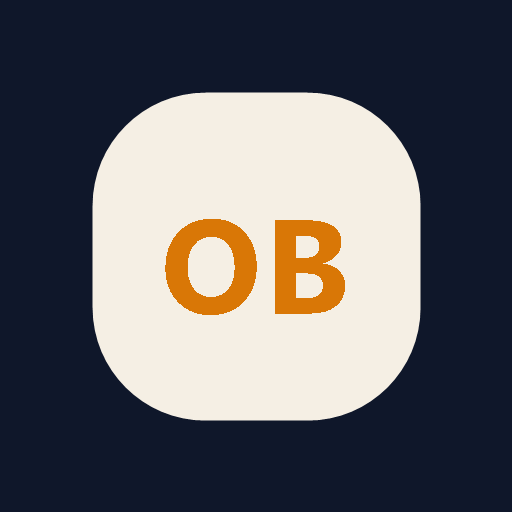
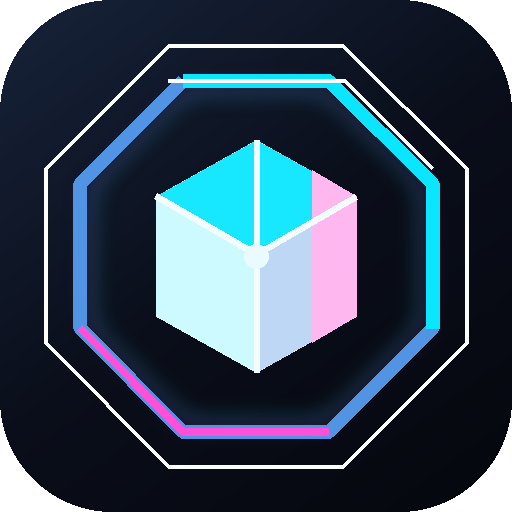
Add unified OctoBox brand assets

diff --git a/static/css/student_app/shell/sidebar.css b/static/css/student_app/shell/sidebar.css
@@ -50,23 +50,15 @@ GERADO NA ONDA 1: divisao estrutural sem redesign visual.
 .student-brandmark-mark {
     width: 46px;
     height: 46px;
-    border-radius: 16px;
     display: grid;
     place-items: center;
-    background:
-        linear-gradient(
-            135deg,
-            color-mix(in srgb, var(--theme-accent-primary) 18%, var(--theme-surface-strong) 82%),
-            color-mix(in srgb, var(--theme-accent-support) 22%, var(--theme-surface-secondary) 78%),
-            color-mix(in srgb, var(--theme-accent-premium) 12%, var(--theme-surface-strong) 88%)
-        );
-    border: 1px solid color-mix(in srgb, var(--theme-accent-support) 20%, var(--theme-border-soft) 80%);
-    box-shadow:
-        inset 0 1px 0 color-mix(in srgb, white 14%, transparent),
-        0 12px 24px color-mix(in srgb, var(--theme-accent-support-alpha) 24%, transparent);
-    color: var(--theme-text-primary);
-    font-weight: 800;
-    letter-spacing: 0.08em;
+    flex: 0 0 auto;
+}
+
+.student-brandmark-mark img {
+    display: block;
+    width: 100%;
+    height: 100%;
 }
 
 .student-nav {

diff --git a/static/css/design-system/pages/login.css b/static/css/design-system/pages/login.css
@@ -87,35 +87,14 @@ main[data-slot="login-root"] {
 .brand-mark {
     width: 72px;
     height: 72px;
-    position: relative;
     display: grid;
     place-items: center;
-    border-radius: 22px;
-    border: 1px solid var(--login-border-strong);
-    background:
-        linear-gradient(145deg, rgba(10, 18, 31, 0.94), rgba(5, 10, 18, 0.96));
-    box-shadow:
-        inset 0 0 0 1px rgba(255, 255, 255, 0.05),
-        0 0 24px var(--login-glow);
 }
 
-.brand-mark::before,
-.brand-mark::after {
-    content: "";
-    position: absolute;
-    inset: 16px;
-    border-radius: 18px;
-}
-
-.brand-mark::before {
-    border: 2px solid rgba(0, 229, 255, 0.72);
-}
-
-.brand-mark::after {
-    inset: 24px;
-    border-radius: 12px;
-    background: linear-gradient(145deg, rgba(0, 229, 255, 0.9), rgba(74, 144, 226, 0.65));
-    box-shadow: 0 0 18px rgba(0, 229, 255, 0.28);
+.brand-mark img {
+    display: block;
+    width: 100%;
+    height: 100%;
 }
 
 .brand-kicker,

diff --git a/templates/includes/ui/layout/shell_sidebar.html b/templates/includes/ui/layout/shell_sidebar.html
@@ -7,10 +7,13 @@ O QUE ESTE ARQUIVO FAZ:
 PONTOS CRITICOS:
 - Depende do usuario autenticado, navegacao e contadores do shell.
 -->
+{% load static %}
 <aside class="sidebar" data-slot="sidebar" data-ui="sidebar">
     <div class="sidebar-head">
         <div class="brand-wrap">
-            <div class="brand-mark" aria-hidden="true">OB</div>
+            <div class="brand-mark" aria-hidden="true">
+                <img src="{% static 'images/brand/octobox-mark.svg' %}?v={{ static_asset_version }}" alt="">
+            </div>
             <div class="brand-copy">
                 <p class="brand">OctoBox Control</p>
                 <p class="tagline">Gestao viva do box com leitura comercial e rotina operacional clara.</p>

diff --git a/static/css/design-system/sidebar/sidebar_layout.css b/static/css/design-system/sidebar/sidebar_layout.css
@@ -87,20 +87,15 @@ O QUE ESTE ARQUIVO FAZ:
 .brand-mark {
     width: 48px;
     height: 48px;
-    border-radius: 16px;
     display: grid;
     place-items: center;
     flex-shrink: 0;
-    color: #f8fbff;
-    font-size: 0.8rem;
-    font-weight: 800;
-    letter-spacing: 0.08em;
-    text-transform: uppercase;
-    background:
-        linear-gradient(145deg, color-mix(in srgb, var(--theme-accent-support) 78%, white 22%), color-mix(in srgb, var(--theme-accent-premium) 28%, var(--theme-accent-support) 72%));
-    box-shadow:
-        0 12px 24px rgba(2, 8, 23, 0.18),
-        inset 0 1px 0 rgba(255, 255, 255, 0.24);
+}
+
+.brand-mark img {
+    display: block;
+    width: 100%;
+    height: 100%;
 }
 
 .brand {

diff --git a/templates/access/login.html b/templates/access/login.html
@@ -26,7 +26,9 @@ PONTOS CRITICOS:
         <div class="login-shell" data-panel="login-shell">
             <section class="login-panel" aria-label="Formulario de login" data-panel="login-form">
                 <div class="brand-lockup">
-                    <span class="brand-mark" aria-hidden="true"></span>
+                    <span class="brand-mark" aria-hidden="true">
+                        <img src="{% static 'images/brand/octobox-mark.svg' %}?v={{ static_asset_version }}" alt="">
+                    </span>
                     <p class="brand-kicker">OctoBox</p>
                     <h1>Entrar na equipe</h1>
                     <p class="brand-subtitle">Acesso interno com usuario e senha.</p>

diff --git a/templates/student_app/_partials/_sidebar.html b/templates/student_app/_partials/_sidebar.html
@@ -1,7 +1,10 @@
+{% load static %}
 {% if student_identity %}
 <aside class="student-sidebar" aria-label="Navegacao do aluno">
     <a href="{% url 'student-app-home' %}" class="student-brandmark">
-        <span class="student-brandmark-mark">OB</span>
+        <span class="student-brandmark-mark" aria-hidden="true">
+            <img src="{% static 'images/brand/octobox-mark.svg' %}?v={{ static_asset_version }}" alt="">
+        </span>
         <span>
             <strong>OctoBox Aluno</strong>
             <small>{{ student_active_box_root_slug|default:"Sem box ativo" }}</small>

diff --git a/templates/access/login_hub.html b/templates/access/login_hub.html
@@ -26,6 +26,7 @@ PONTOS CRITICOS:
     <main class="entry-shell" aria-label="Escolha de entrada do OctoBox">
         <section class="entry-panel" aria-label="Opcoes de acesso">
             <div class="entry-brand-chip">
+                <img class="entry-brand-icon" src="{% static 'images/brand/octobox-mark.svg' %}?v={{ static_asset_version }}" alt="">
                 <span>OctoBox</span>
                 <span>Entrada oficial</span>
             </div>

diff --git a/templates/access/landing.html b/templates/access/landing.html
@@ -35,6 +35,7 @@ PONTOS CRITICOS:
 <body data-page="marketing-landing">
     <header class="landing-nav">
         <a class="landing-brand" href="#topo" aria-label="OctoBox, voltar ao topo">
+            <img class="landing-brand-icon" src="{% static 'images/brand/octobox-mark.svg' %}?v={{ static_asset_version }}" alt="">
             <span class="landing-brand-mark">OctoBox</span>
             <span class="landing-brand-subtitle">Fit</span>
         </a>

diff --git a/static/css/design-system/pages/marketing-landing.css b/static/css/design-system/pages/marketing-landing.css
@@ -90,12 +90,18 @@ img {
 
 .landing-brand {
     display: inline-flex;
-    align-items: baseline;
+    align-items: center;
     gap: 8px;
     font-weight: 800;
     text-decoration: none;
     color: #f8fbff;
     letter-spacing: -0.04em;
+}
+
+.landing-brand-icon {
+    width: 30px;
+    height: 30px;
+    flex: 0 0 auto;
 }
 
 .landing-brand-mark {

diff --git a/static/css/design-system/pages/login-hub.css b/static/css/design-system/pages/login-hub.css
@@ -72,6 +72,12 @@ body {
     font-size: 0.84rem;
 }
 
+.entry-brand-icon {
+    width: 28px;
+    height: 28px;
+    flex: 0 0 auto;
+}
+
 .entry-eyebrow,
 .entry-note,
 .entry-support-copy {
